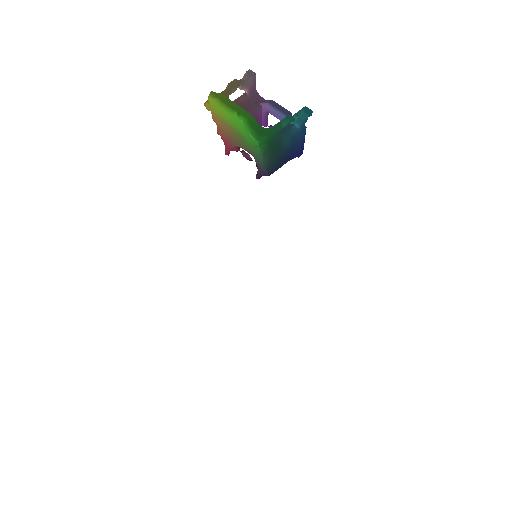
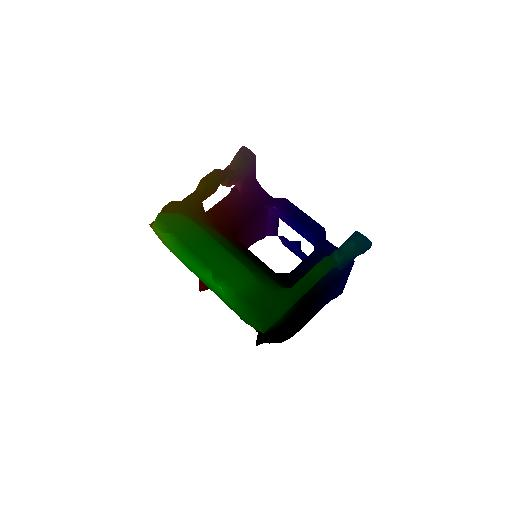
code changes

Changed region(s): [[0.2812, 0.125, 0.75, 0.6875]]

diff --git a/assignment3/renderer.py b/assignment3/renderer.py
@@ -16,27 +16,68 @@ class VolumeRenderer(torch.nn.Module):
         self._chunk_size = cfg.chunk_size
         self._white_background = cfg.white_background if 'white_background' in cfg else False
 
+    def get_device(self):
+        """
+        Checks if GPU is available and returns device accordingly.
+        """
+        if torch.cuda.is_available():
+            device = torch.device("cuda:0")
+        else:
+            device = torch.device("cpu")
+        return device
+
     def _compute_weights(
         self,
         deltas,
         rays_density: torch.Tensor,
         eps: float = 1e-10
     ):
-        # TODO (1.5): Compute transmittance using the equation described in the README
-        pass
+        # # TODO (1.5): Compute transmittance using the equation described in the README
+        # T_list = []
+        # T = 1
+        # for delta, rays_density_ele in zip(deltas, rays_density):
+        #     T_list.append(T * (torch.exp(-delta * rays_density_ele)))
+        #     T = T_list[-1]
+        # T_tensor = torch.stack(T_list, dim=0) # torch.Size([32768, 64, 1])
+        # # TODO (1.5): Compute weight used for rendering from transmittance and density
+        # rendering_weights = T_tensor * (1 - torch.exp(-rays_density * deltas + eps)) # torch.Size([32768, 64, 1])
+        # return rendering_weights
+    
+        num_rays = rays_density.shape[0]
+        num_samples = rays_density.shape[1]
 
-        # TODO (1.5): Compute weight used for rendering from transmittance and density
+        T_prev = torch.ones(num_rays, 1).to(self.get_device())
+  
+
+        T = []
+        for i in range(num_samples):
+            T_curr = T_prev * torch.exp(-rays_density[:, i] * deltas[:, i])
+            T.append(T_curr)
+            T_prev = T_curr
+
+        T = torch.stack(T, dim=1)
+        transmittance = (1 - torch.exp(-rays_density * deltas + eps))
+        # print(f"shape of T {T.shape}, transmittance {transmittance.shape}")
+        weights = T * transmittance
+
         return weights
     
     def _aggregate(
         self,
-        weights: torch.Tensor,
-        rays_feature: torch.Tensor
+        weights: torch.Tensor, # torch.Size([32768, 64, 1])
+        rays_feature: torch.Tensor # torch.Size([2097152, 3])
     ):
         # TODO (1.5): Aggregate (weighted sum of) features using weights
-        pass
-
+        ray_features_reshaped = rays_feature.view(weights.shape[0], weights.shape[1], -1) # torch.Size([32768, 64, 3])
+        feature = torch.sum(weights * ray_features_reshaped, dim=1)
         return feature
+        # chunk_size = weights.shape[0]
+        # num_samples = weights.shape[1]
+        # rays_feature_reshape = rays_feature.view(chunk_size, num_samples, -1)
+        # # rays_feature_reshape = rays_feature_reshape.squeeze(2)
+        # # print(f"rays_feature_reshape shape: {rays_feature_reshape.shape}, weights shape: {weights.shape}")
+        # feature = torch.sum(weights * rays_feature_reshape, dim=1)
+        # return feature
 
     def forward(
         self,
@@ -54,34 +95,34 @@ class VolumeRenderer(torch.nn.Module):
 
             # Sample points along the ray
             cur_ray_bundle = sampler(cur_ray_bundle)
-            n_pts = cur_ray_bundle.sample_shape[1]
+            n_pts = cur_ray_bundle.sample_shape[1] # 64
 
             # Call implicit function with sample points
             implicit_output = implicit_fn(cur_ray_bundle)
-            density = implicit_output['density']
-            feature = implicit_output['feature']
+            density = implicit_output['density'] # torch.Size([2097152, 1])
+            feature = implicit_output['feature'] # torch.Size([2097152, 3])
 
             # Compute length of each ray segment
-            depth_values = cur_ray_bundle.sample_lengths[..., 0]
+            depth_values = cur_ray_bundle.sample_lengths[..., 0] # torch.Size([32768, 64])
             deltas = torch.cat(
                 (
                     depth_values[..., 1:] - depth_values[..., :-1],
                     1e10 * torch.ones_like(depth_values[..., :1]),
                 ),
                 dim=-1,
-            )[..., None]
+            )[..., None] # torch.Size([32768, 64, 1])
 
             # Compute aggregation weights
             weights = self._compute_weights(
-                deltas.view(-1, n_pts, 1),
-                density.view(-1, n_pts, 1)
+                deltas.view(-1, n_pts, 1), # torch.Size([32768, 64, 1])
+                density.view(-1, n_pts, 1) # torch.Size([32768, 64, 1])
             ) 
 
             # TODO (1.5): Render (color) features using weights
-            pass
+            feature = self._aggregate(weights=weights, rays_feature=feature) # torch.Size([32768, 3])
 
             # TODO (1.5): Render depth map
-            pass
+            depth = self._aggregate(weights=weights, rays_feature=depth_values) # torch.Size([32768, 1])
 
             # Return
             cur_out = {

diff --git a/assignment3/ray_utils.py b/assignment3/ray_utils.py
@@ -146,7 +146,7 @@ def get_device():
 
 # Get rays from pixel values
 def get_rays_from_pixels(xy_grid, image_size, camera):
-    W, H = image_size[0], image_size[1]
+    W, H = image_size[0], image_size[1] # 256, 256
 
     # TODO (1.3): Map pixels to points on the image plane at Z=1
     ndc_points = torch.cat([xy_grid, torch.ones((W * H, 1))], dim=1)
@@ -158,19 +158,20 @@ def get_rays_from_pixels(xy_grid, image_size, camera):
             torch.ones_like(ndc_points[..., -1:])
         ],
         dim=-1,
-    ).to(device)
+    ).to(device) # torch.Size([65536, 4])
     torch.cuda.empty_cache()
     # TODO (1.3): Use camera.unproject to get world space points on the image plane from NDC space points
     # world_space_points = camera.unproject_points(ndc_points, world_coordinates=True)
     # world_space_points = camera.unproject_points(ndc_points, in_ndc=False, from_ndc=False, world_coordinates=True,)
-    world_space_points = camera.unproject_points(ndc_points)
+    world_space_points = camera.unproject_points(ndc_points) # torch.Size([65536, 3])
 
     # TODO (1.3): Get ray origins from camera center
-    ray_origins = camera.get_camera_center().to(device)
+    ray_origins = camera.get_camera_center().to(device) # torch.Size([1, 3])
+    ray_origins = ray_origins.repeat(world_space_points.shape[0], 1) # torch.Size([65536, 3])
 
     # TODO (1.3): Get normalized ray directions
-    ray_directions = world_space_points - ray_origins
-    normalized_ray_directions = ray_directions / torch.norm(ray_directions, dim=1, keepdim=True)
+    ray_directions = world_space_points - ray_origins # torch.Size([65536, 3])
+    normalized_ray_directions = ray_directions / torch.norm(ray_directions, dim=1, keepdim=True) # torch.Size([65536, 3])
 
     # Create and return RayBundle
     return RayBundle(

diff --git a/assignment3/implicit.py b/assignment3/implicit.py
@@ -95,19 +95,19 @@ class SDFVolume(torch.nn.Module):
         ) * self.alpha
 
     def forward(self, ray_bundle):
-        sample_points = ray_bundle.sample_points.view(-1, 3)
-        depth_values = ray_bundle.sample_lengths[..., 0]
+        sample_points = ray_bundle.sample_points.view(-1, 3) # torch.Size([2097152, 3])
+        depth_values = ray_bundle.sample_lengths[..., 0] # torch.Size([32768, 64])
         deltas = torch.cat(
             (
                 depth_values[..., 1:] - depth_values[..., :-1],
                 1e10 * torch.ones_like(depth_values[..., :1]),
             ),
             dim=-1,
-        ).view(-1, 1)
+        ).view(-1, 1) # torch.Size([2097152, 1])
 
         # Transform SDF to density
-        signed_distance = self.sdf(ray_bundle)
-        density = self._sdf_to_density(signed_distance)
+        signed_distance = self.sdf(ray_bundle) # torch.Size([2097152, 1])
+        density = self._sdf_to_density(signed_distance) # torch.Size([2097152, 1])
 
         # Outputs
         if self.rainbow:
@@ -115,13 +115,13 @@ class SDFVolume(torch.nn.Module):
                 torch.abs(sample_points - self.sdf.center),
                 0.02,
                 0.98
-            )
+            ) # torch.Size([2097152, 3])
         else:
             base_color = 1.0
 
         out = {
-            'density': -torch.log(1.0 - density) / deltas,
-            'feature': base_color * self.feature * density.new_ones(sample_points.shape[0], 1)
+            'density': -torch.log(1.0 - density) / deltas, # torch.Size([2097152, 1])
+            'feature': base_color * self.feature * density.new_ones(sample_points.shape[0], 1) # torch.Size([2097152, 3])
         }
 
         return out

diff --git a/assignment3/sampler.py b/assignment3/sampler.py
@@ -35,11 +35,11 @@ class StratifiedRaysampler(torch.nn.Module):
     ):
         device = self.get_device()
         # TODO (1.4): Compute z values for self.n_pts_per_ray points uniformly sampled between [near, far]
-        z_vals = Uniform(self.min_depth, self.max_depth).sample((self.n_pts_per_ray,1)).unsqueeze(0).repeat(ray_bundle.directions.shape[0], 1, 1).to(device)
-        restructured_ray_directions = ray_bundle.directions.view(ray_bundle.directions.shape[0], -1, 3)
+        z_vals = Uniform(self.min_depth, self.max_depth).sample((self.n_pts_per_ray,1)).unsqueeze(0).repeat(ray_bundle.directions.shape[0], 1, 1).to(device) # torch.Size([32768, 64, 1])
+        restructured_ray_directions = ray_bundle.directions.view(ray_bundle.directions.shape[0], -1, 3) # torch.Size([32768, 1, 3])
         # TODO (1.4): Sample points from z values # N * 64 * 3
-        ray_origins_reshaped = ray_bundle.origins.view(-1, 1, 3)
-        sample_points = ray_origins_reshaped + torch.bmm(z_vals, restructured_ray_directions)
+        ray_origins_reshaped = ray_bundle.origins.view(-1, 1, 3) # torch.Size([1, 1, 3])
+        sample_points = ray_origins_reshaped + torch.bmm(z_vals, restructured_ray_directions) # torch.Size([32768, 64, 3])
         # Return
         return ray_bundle._replace(
             sample_points=sample_points,

diff --git a/assignment3/main.py b/assignment3/main.py
@@ -154,7 +154,7 @@ def render(
     # Render spiral
     cameras = create_surround_cameras(3.0, n_poses=20)
     all_images = render_images(
-        model, cameras, cfg.data.image_size
+        model, cameras, cfg.data.image_size, save=True
     )
     imageio.mimsave('images/part_1.gif', [np.uint8(im * 255) for im in all_images])
 
